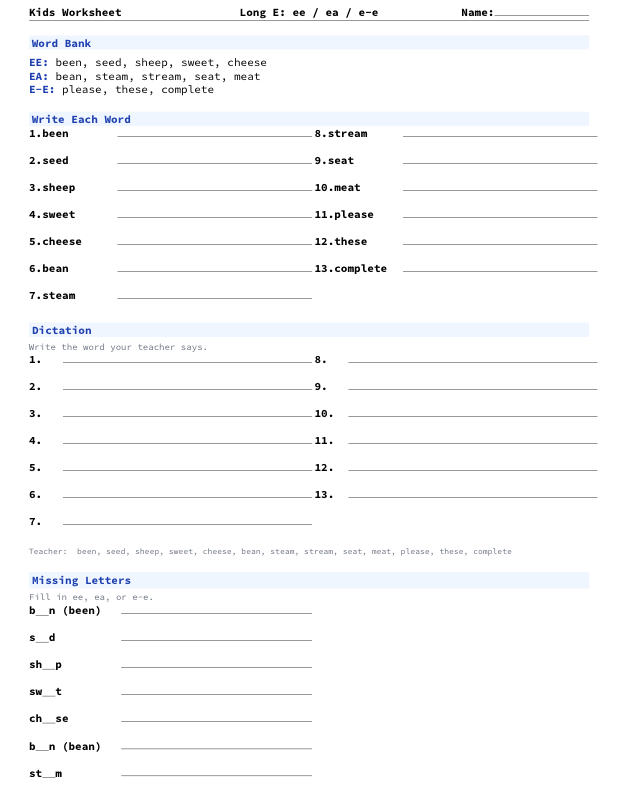
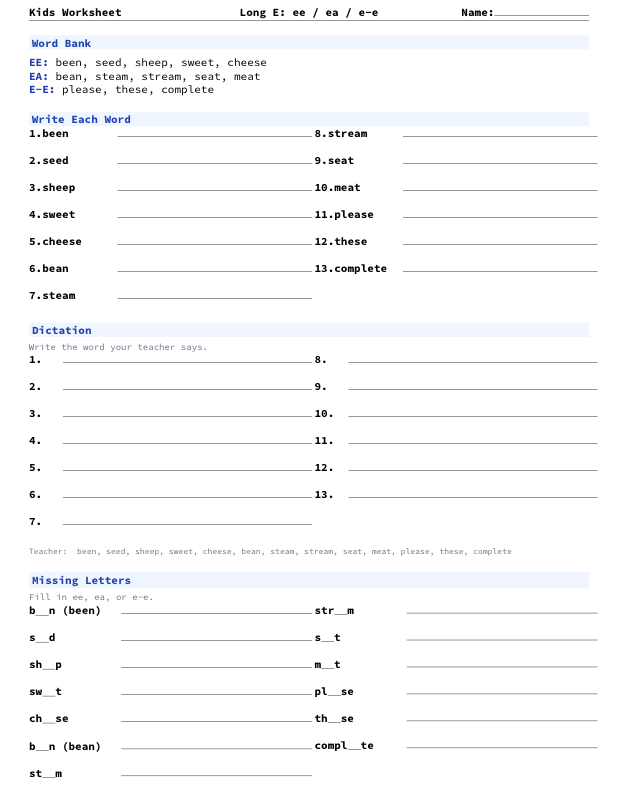
Fix spacing in two-column sections

diff --git a/src/word-test-long-e.tex b/src/word-test-long-e.tex
@@ -72,13 +72,8 @@
 \Sec{Missing Letters}
 \Note{Fill in ee, ea, or e-e.}
 \begin{multicols}{2}
-\begin{minipage}{\linewidth}
 \Tbl{1.1in}{\Row{b\Blank n (been)}\Row{s\Blank d}\Row{sh\Blank p}\Row{sw\Blank t}\Row{ch\Blank se}\Row{b\Blank n (bean)}\Row{st\Blank m}}
-\end{minipage}
-\columnbreak
-\begin{minipage}{\linewidth}
 \Tbl{1.1in}{\Row{str\Blank m}\Row{s\Blank t}\Row{m\Blank t}\Row{pl\Blank se}\Row{th\Blank se}\Row{compl\Blank te}}
-\end{minipage}
 \end{multicols}
 
 \newpage
@@ -88,7 +83,7 @@
 \begin{multicols}{2}
 \Tbl{0.95in}{\Row{e e b n}\Row{e d e s}\Row{e p e s h}\Row{e t e w s}\Row{e s e e c h}\Row{a n e b}\Row{a m s t e}}
 \columnbreak
-\Tbl{0.95in}{\Row{m e r s t a}\Row{a t e s}\Row{a m t e}\Row{e s l a p e}\Row{e e s t h}\Row{e t e l p m o c}}
+\;\Tbl{0.95in}{\Row{m e r s t a}\Row{a t e s}\Row{a m t e}\Row{e s l a p e}\Row{e e s t h}\Row{e t e l p m o c}}
 \end{multicols}
 
 \Sec{Sentence Completion}
